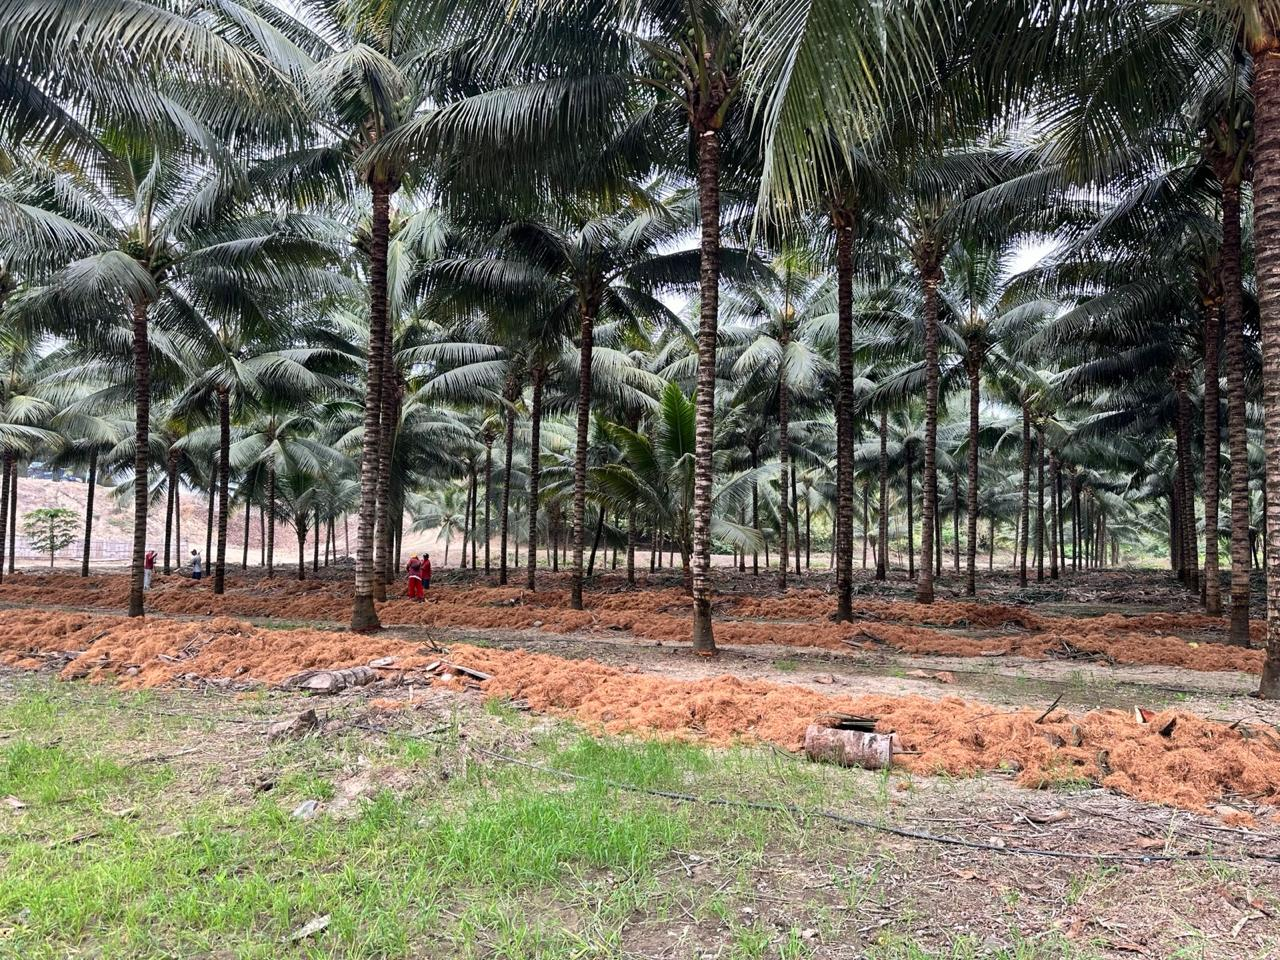
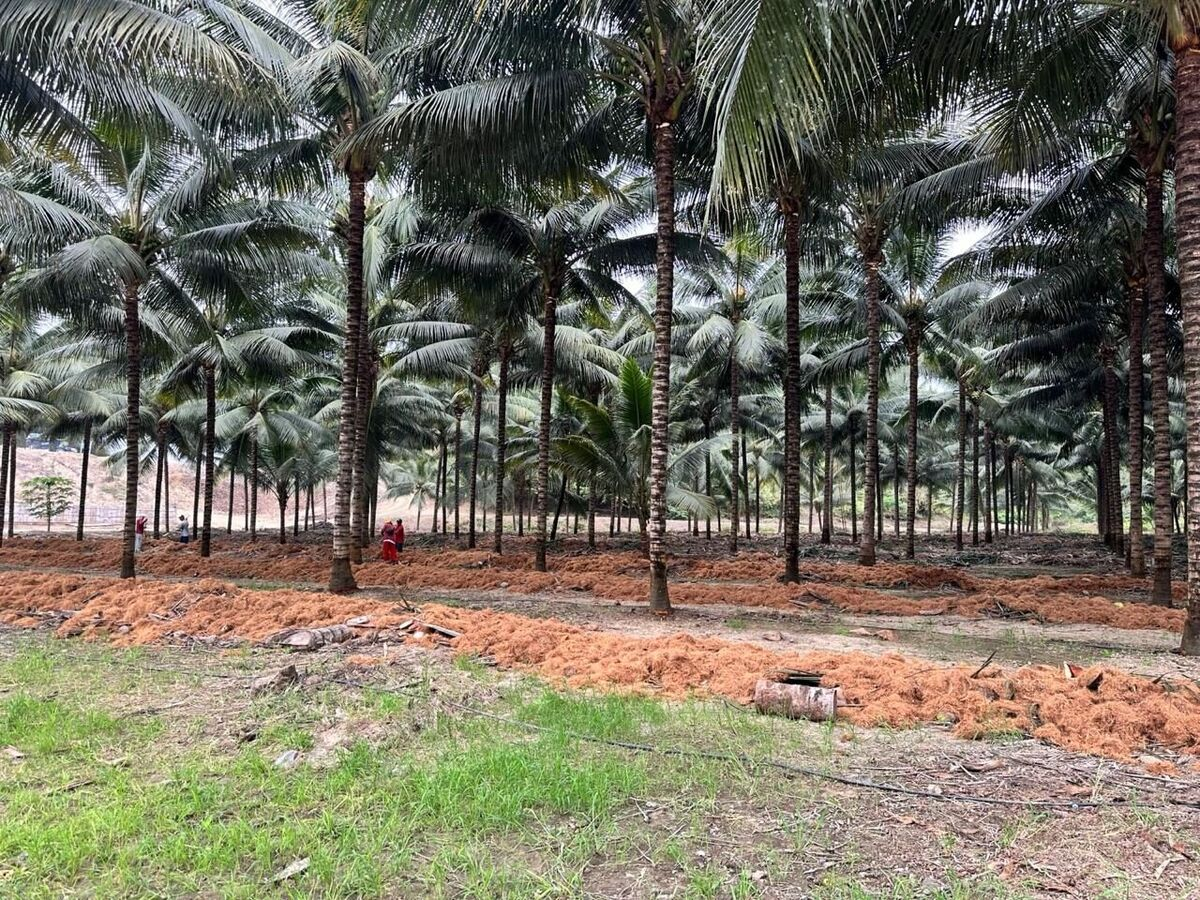
perf: optimize load performance and add loader
- Add preconnect/dns-prefetch tags for external media.
- Defer non-critical CSS loading.
- Replace basic spinner with custom CoconutLoader component.
- Add aesthetic placeholder for video player.

diff --git a/src/components/CoconutLoader.tsx b/src/components/CoconutLoader.tsx
@@ -1,0 +1,143 @@
+import React from 'react';
+
+interface CoconutLoaderProps {
+  label?: string;
+  size?: 'sm' | 'md' | 'lg';
+  fullScreen?: boolean;
+}
+
+export const CoconutLoader: React.FC<CoconutLoaderProps> = ({
+  label = 'EcoPacific',
+  size = 'md',
+  fullScreen = true,
+}) => {
+  const sizeMap = {
+    sm: 'w-10 h-10',
+    md: 'w-16 h-16',
+    lg: 'w-24 h-24',
+  };
+
+  const content = (
+    <div className="flex flex-col items-center justify-center gap-4 select-none">
+      {/* Floating coconut container */}
+      <div className="relative flex flex-col items-center animate-coco-bob">
+        {/* Glow ambient background */}
+        <div className="absolute -inset-4 bg-[#5B8C2A]/20 rounded-full blur-xl pointer-events-none" />
+
+        {/* Coconut SVG with 360 spin */}
+        <div
+          className={`${sizeMap[size]} relative animate-coco-spin origin-center will-change-transform`}
+        >
+          <svg
+            viewBox="0 0 100 100"
+            className="w-full h-full drop-shadow-md"
+            fill="none"
+            xmlns="http://www.w3.org/2000/svg"
+          >
+            {/* Gradients */}
+            <defs>
+              {/* Outer coconut shell gradient */}
+              <radialGradient id="cocoShell" cx="35%" cy="30%" r="70%">
+                <stop offset="0%" stopColor="#8C532B" />
+                <stop offset="45%" stopColor="#5E3416" />
+                <stop offset="100%" stopColor="#381D0B" />
+              </radialGradient>
+
+              {/* Coconut inner fiber subtle gradient */}
+              <linearGradient id="fiberGrad" x1="0%" y1="0%" x2="100%" y2="100%">
+                <stop offset="0%" stopColor="#2E1607" stopOpacity="0.6" />
+                <stop offset="100%" stopColor="#1A0C04" stopOpacity="0.8" />
+              </linearGradient>
+
+              {/* Tropical palm sprout leaf at top */}
+              <linearGradient id="sproutGrad" x1="0%" y1="100%" x2="100%" y2="0%">
+                <stop offset="0%" stopColor="#4A7422" />
+                <stop offset="100%" stopColor="#84CC16" />
+              </linearGradient>
+            </defs>
+
+            {/* Small palm sprout at the top of the coconut */}
+            <path
+              d="M50 14 C46 6, 36 4, 32 8 C38 10, 44 16, 46 22 Z"
+              fill="url(#sproutGrad)"
+            />
+            <path
+              d="M50 14 C54 5, 64 6, 68 11 C62 11, 56 17, 53 23 Z"
+              fill="url(#sproutGrad)"
+            />
+
+            {/* Coconut Shell (organic oval) */}
+            <ellipse
+              cx="50"
+              cy="54"
+              rx="37"
+              ry="40"
+              fill="url(#cocoShell)"
+              stroke="#2A1406"
+              strokeWidth="2.5"
+            />
+
+            {/* Coconut organic fibers / striations */}
+            <path
+              d="M30 28 Q24 52 32 78"
+              stroke="url(#fiberGrad)"
+              strokeWidth="1.8"
+              strokeLinecap="round"
+            />
+            <path
+              d="M50 20 Q48 54 51 88"
+              stroke="url(#fiberGrad)"
+              strokeWidth="1.6"
+              strokeLinecap="round"
+            />
+            <path
+              d="M70 28 Q76 52 68 78"
+              stroke="url(#fiberGrad)"
+              strokeWidth="1.8"
+              strokeLinecap="round"
+            />
+
+            {/* The 3 iconic Coconut Eyes (germination pores) */}
+            {/* Eye 1 */}
+            <ellipse cx="40" cy="42" rx="4.5" ry="5.5" fill="#1C0D05" />
+            <circle cx="39" cy="40.5" r="1.5" fill="#4A2813" />
+
+            {/* Eye 2 */}
+            <ellipse cx="60" cy="42" rx="4.5" ry="5.5" fill="#1C0D05" />
+            <circle cx="59" cy="40.5" r="1.5" fill="#4A2813" />
+
+            {/* Eye 3 (mouth/lower pore) */}
+            <ellipse cx="50" cy="62" rx="5" ry="6" fill="#1C0D05" />
+            <circle cx="49" cy="60.5" r="1.6" fill="#4A2813" />
+          </svg>
+        </div>
+
+        {/* Synchronized dynamic shadow underneath */}
+        <div className="w-12 h-2.5 bg-black/60 rounded-full blur-[2px] mt-2 animate-coco-shadow will-change-transform" />
+      </div>
+
+      {/* Label / Branding */}
+      {label && (
+        <div className="flex flex-col items-center gap-1.5 mt-2">
+          <span className="text-white font-bold text-xs sm:text-sm tracking-widest uppercase flex items-center gap-1.5">
+            <span className="w-2 h-2 rounded-full bg-[#5B8C2A] animate-ping" />
+            {label}
+          </span>
+          <span className="text-emerald-400/80 text-[10px] sm:text-xs font-semibold tracking-wider uppercase">
+            Cargando...
+          </span>
+        </div>
+      )}
+    </div>
+  );
+
+  if (!fullScreen) {
+    return content;
+  }
+
+  return (
+    <div className="min-h-screen w-full bg-[#0d1607] flex items-center justify-center p-6">
+      {content}
+    </div>
+  );
+};

diff --git a/index.html b/index.html
@@ -9,12 +9,61 @@
     <meta property="og:description" content="Página web corporativa de EcoPacific. Alimentos y bebidas creados desde el origen, con sabor, innovación y propósito." />
     <meta property="og:type" content="website" />
     <meta name="twitter:card" content="summary_large_image" />
+
+    <!-- Preconnect for YouTube & Media to speed up initial connection -->
+    <link rel="preconnect" href="https://www.youtube-nocookie.com" crossorigin>
+    <link rel="preconnect" href="https://i.ytimg.com" crossorigin>
+    <link rel="dns-prefetch" href="https://www.youtube-nocookie.com">
+    <link rel="dns-prefetch" href="https://i.ytimg.com">
+
+    <!-- Fonts: Preconnect & non-blocking load -->
     <link rel="preconnect" href="https://fonts.googleapis.com">
     <link rel="preconnect" href="https://fonts.gstatic.com" crossorigin>
-    <link href="https://fonts.googleapis.com/css2?family=Plus+Jakarta+Sans:ital,wght@0,300;0,400;0,500;0,600;0,700;0,800;1,400&family=Playfair+Display:ital,wght@0,500;0,600;0,700;1,400;1,600&display=swap" rel="stylesheet">
+    <link rel="stylesheet" href="https://fonts.googleapis.com/css2?family=Plus+Jakarta+Sans:ital,wght@0,300;0,400;0,500;0,600;0,700;0,800;1,400&family=Playfair+Display:ital,wght@0,500;0,600;0,700;1,400;1,600&display=swap" media="print" onload="this.media='all'">
+    <noscript>
+      <link rel="stylesheet" href="https://fonts.googleapis.com/css2?family=Plus+Jakarta+Sans:ital,wght@0,300;0,400;0,500;0,600;0,700;0,800;1,400&family=Playfair+Display:ital,wght@0,500;0,600;0,700;1,400;1,600&display=swap">
+    </noscript>
   </head>
-  <body class="bg-neutral-50 text-neutral-900 font-sans antialiased selection:bg-emerald-900 selection:text-white">
-    <div id="root"></div>
+  <body class="bg-[#0d1607] text-neutral-900 font-sans antialiased selection:bg-[#5B8C2A] selection:text-white">
+    <div id="root">
+      <!-- Instant pure-CSS / SVG Coconut loader for 0ms initial visual feedback -->
+      <div style="min-height:100vh;background-color:#0d1607;display:flex;align-items:center;justify-content:center;color:#fff;font-family:sans-serif;">
+        <div style="display:flex;flex-direction:column;align-items:center;gap:16px;">
+          <style>
+            @keyframes init-coco-spin{0%{transform:rotate(0deg)}100%{transform:rotate(360deg)}}
+            @keyframes init-coco-bob{0%,100%{transform:translateY(0)}50%{transform:translateY(-8px)}}
+            @keyframes init-coco-shadow{0%,100%{transform:scale(1);opacity:0.35}50%{transform:scale(0.7);opacity:0.15}}
+          </style>
+          <div style="position:relative;display:flex;flex-direction:column;align-items:center;animation:init-coco-bob 1.5s ease-in-out infinite;">
+            <div style="width:64px;height:64px;animation:init-coco-spin 1.5s cubic-bezier(0.4, 0, 0.2, 1) infinite;">
+              <svg viewBox="0 0 100 100" style="width:100%;height:100%;" fill="none">
+                <defs>
+                  <radialGradient id="initShell" cx="35%" cy="30%" r="70%">
+                    <stop offset="0%" stop-color="#8C532B" />
+                    <stop offset="45%" stop-color="#5E3416" />
+                    <stop offset="100%" stop-color="#381D0B" />
+                  </radialGradient>
+                </defs>
+                <path d="M50 14 C46 6, 36 4, 32 8 C38 10, 44 16, 46 22 Z" fill="#84CC16" />
+                <path d="M50 14 C54 5, 64 6, 68 11 C62 11, 56 17, 53 23 Z" fill="#5B8C2A" />
+                <ellipse cx="50" cy="54" rx="37" ry="40" fill="url(#initShell)" stroke="#2A1406" stroke-width="2.5" />
+                <path d="M30 28 Q24 52 32 78" stroke="#2E1607" stroke-width="1.8" stroke-linecap="round" opacity="0.6" />
+                <path d="M50 20 Q48 54 51 88" stroke="#2E1607" stroke-width="1.6" stroke-linecap="round" opacity="0.5" />
+                <path d="M70 28 Q76 52 68 78" stroke="#2E1607" stroke-width="1.8" stroke-linecap="round" opacity="0.6" />
+                <ellipse cx="40" cy="42" rx="4.5" ry="5.5" fill="#1C0D05" />
+                <ellipse cx="60" cy="42" rx="4.5" ry="5.5" fill="#1C0D05" />
+                <ellipse cx="50" cy="62" rx="5" ry="6" fill="#1C0D05" />
+              </svg>
+            </div>
+            <div style="width:48px;height:8px;background:rgba(0,0,0,0.6);border-radius:9999px;margin-top:8px;animation:init-coco-shadow 1.5s ease-in-out infinite;"></div>
+          </div>
+          <div style="display:flex;flex-direction:column;align-items:center;gap:4px;">
+            <span style="font-weight:700;font-size:12px;letter-spacing:0.15em;text-transform:uppercase;color:#fff;">EcoPacific</span>
+            <span style="font-size:10px;letter-spacing:0.1em;text-transform:uppercase;color:#34D399;">Cargando...</span>
+          </div>
+        </div>
+      </div>
+    </div>
     <script type="module" src="/src/main.tsx"></script>
   </body>
 </html>

diff --git a/src/components/Hero.tsx b/src/components/Hero.tsx
@@ -75,11 +75,26 @@ export const Hero: React.FC<HeroProps> = ({ language }) => {
       {/* Cuadro redondeado grande que cubre la mayor parte de la sección con el video */}
       <div className="relative z-10 w-full max-w-5xl xl:max-w-6xl mx-auto flex items-center justify-center">
         <div className="relative w-full aspect-video rounded-2xl sm:rounded-3xl md:rounded-[2.5rem] overflow-hidden shadow-2xl shadow-black/80 border border-white/20 ring-1 ring-black/40 bg-black group">
+          {/* Subtle loading placeholder behind iframe while player boots */}
+          <div className="absolute inset-0 bg-[#0d1607] flex items-center justify-center pointer-events-none">
+            <div className="flex flex-col items-center gap-2 opacity-60">
+              <div className="w-10 h-10 animate-coco-spin">
+                <svg viewBox="0 0 100 100" className="w-full h-full" fill="none">
+                  <ellipse cx="50" cy="54" rx="37" ry="40" fill="#5E3416" stroke="#2A1406" strokeWidth="2" />
+                  <ellipse cx="40" cy="42" rx="4" ry="5" fill="#1C0D05" />
+                  <ellipse cx="60" cy="42" rx="4" ry="5" fill="#1C0D05" />
+                  <ellipse cx="50" cy="62" rx="4.5" ry="5.5" fill="#1C0D05" />
+                </svg>
+              </div>
+            </div>
+          </div>
+
           <iframe
             ref={iframeRef}
             src="https://www.youtube-nocookie.com/embed/ahkl1jnSpKE?autoplay=1&mute=1&loop=1&playlist=ahkl1jnSpKE&controls=1&playsinline=1&rel=0&modestbranding=1&enablejsapi=1"
             title="EcoPacific Video"
-            className="w-full h-full border-0"
+            className="w-full h-full border-0 relative z-10"
+            loading="eager"
             allow="accelerometer; autoplay; clipboard-write; encrypted-media; gyroscope; picture-in-picture; web-share"
             allowFullScreen
           />

diff --git a/src/App.tsx b/src/App.tsx
@@ -1,5 +1,6 @@
 import React, { useState, useEffect, Suspense, lazy } from 'react';
 import { Language } from './types';
+import { CoconutLoader } from './components/CoconutLoader';
 
 // Dynamic lazy imports: Only the page currently requested by the user is loaded.
 // Other pages and their assets are NOT fetched until navigated to.
@@ -20,14 +21,7 @@ const ContactSubpage = lazy(() =>
 );
 
 const PageLoadingFallback: React.FC = () => (
-  <div className="min-h-screen bg-[#111c0a] flex items-center justify-center p-6 text-center">
-    <div className="flex flex-col items-center gap-3">
-      <div className="w-10 h-10 border-3 border-[#5B8C2A] border-t-transparent rounded-full animate-spin" />
-      <span className="text-white/80 text-xs tracking-widest uppercase font-semibold">
-        EcoPacific
-      </span>
-    </div>
-  </div>
+  <CoconutLoader label="EcoPacific" fullScreen />
 );
 
 export default function App() {

diff --git a/src/index.css b/src/index.css
@@ -38,4 +38,46 @@ html {
   }
 }
 
+/* Ultralight GPU-accelerated Coconut animations (0 CPU overhead) */
+@keyframes coco-spin {
+  0% {
+    transform: rotate(0deg);
+  }
+  100% {
+    transform: rotate(360deg);
+  }
+}
+
+@keyframes coco-bob {
+  0%, 100% {
+    transform: translateY(0);
+  }
+  50% {
+    transform: translateY(-8px);
+  }
+}
+
+@keyframes coco-shadow {
+  0%, 100% {
+    transform: scale(1);
+    opacity: 0.4;
+  }
+  50% {
+    transform: scale(0.7);
+    opacity: 0.15;
+  }
+}
+
+.animate-coco-spin {
+  animation: coco-spin 1.5s cubic-bezier(0.4, 0, 0.2, 1) infinite;
+}
+
+.animate-coco-bob {
+  animation: coco-bob 1.5s ease-in-out infinite;
+}
+
+.animate-coco-shadow {
+  animation: coco-shadow 1.5s ease-in-out infinite;
+}
+
 
